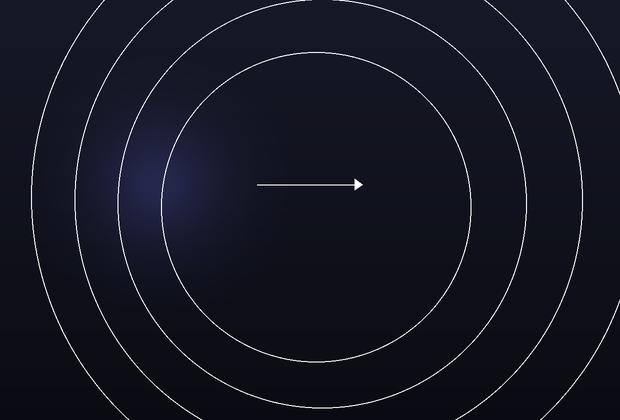
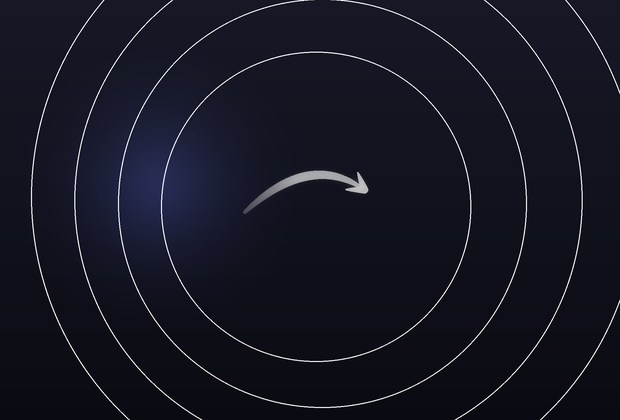
feat: onboarding exit, richer menu bar, actionable errors, drawn DMG arrow
Onboarding had no way out. The panel is a non-activating notch window, so it
receives no key events and Cmd-Q never reaches it, and the flow itself only
moves forward — someone who opened the app to look at it was stuck with a
panel they could not dismiss. There is now a quit control on every step
except the last. It quits rather than hides: onboarding is not optional, so
a dismiss would leave a running app with no route back into setup, and being
straightforward about that beats a button that strands the user. It sits
outside the step ZStack's `.id(step)` so the step transition does not tear it
down and re-insert it on every screen.

Menu bar gains "Add a Face…" and "Quit and Reopen". Adding a second identity
— with glasses, in different light — is the most common fix when recognition
is failing, and it was three clicks deep with nothing pointing at it; the new
item opens Settings directly on that tab via a small one-shot router, since
the tab lives in `@State private var selection` that nothing outside could
reach. "Quit and Reopen" exists because the camera format and the Core ML
model are both chosen at startup, so some settings genuinely need a fresh
launch, and "quit, then go find the app again" is a poor thing to ask of
someone who just changed one. It spawns the new instance with `open -n` so it
belongs to launchd rather than being a child of a process that is about to
die.

Keychain errors now say what to do. They are shown inline under the password
[…]

diff --git a/glance/KeychainManager.swift b/glance/KeychainManager.swift
@@ -16,19 +16,57 @@ enum KeychainError: LocalizedError {
     case authenticationFailed
     case osStatus(OSStatus)
 
+    /// Every case says what the user can actually do about it.
+    ///
+    /// These strings are shown inline under the password field during onboarding,
+    /// where a bare Security-framework message is worse than useless: it is
+    /// alarming, unsearchable, and gives no next step. `errSecMissingEntitlement`
+    /// in particular rendered as "Keychain error: A required entitlement is not
+    /// present", which tells a user nothing they can act on and does not even
+    /// hint that the build is at fault rather than their Mac.
     var errorDescription: String? {
         switch self {
         case .itemNotFound:
-            return "Keychain item not found."
+            return "That Keychain item is missing. Set up your password again to recreate it."
         case .unexpectedData:
-            return "Keychain item had an unexpected format."
+            return "The stored Keychain item is in an unexpected format. "
+                 + "Remove the stored password on the Password tab, then set it again."
         case .accessControlFailed(let msg):
-            return "Couldn't create Keychain access control: \(msg)"
+            return "Couldn't set up Touch ID protection for the stored password (\(msg)). "
+                 + "Check that Touch ID is enrolled in System Settings, then try again."
         case .authenticationFailed:
-            return "Authentication was cancelled or failed."
+            return "Touch ID was cancelled or didn't match. Try again."
         case .osStatus(let status):
-            let message = SecCopyErrorMessageString(status, nil) as String? ?? "OSStatus \(status)"
-            return "Keychain error: \(message)"
+            return Self.actionable(for: status)
+        }
+    }
+
+    /// Maps the handful of OSStatus values this app can realistically produce to
+    /// something a user can act on, and falls back to the system string plus the
+    /// numeric code for everything else — the code matters, because it is the only
+    /// searchable part of an unrecognised failure.
+    private static func actionable(for status: OSStatus) -> String {
+        let system = SecCopyErrorMessageString(status, nil) as String? ?? "unknown error"
+        switch status {
+        case errSecMissingEntitlement:
+            // Not the user's fault and not fixable by them. Say so, rather than
+            // leaving them retrying a thing that cannot work.
+            return "This build of Irys isn't signed correctly, so it can't use the Keychain "
+                 + "(\(system)). Nothing you can change will fix it — please report this at "
+                 + "github.com/jng011/glance/issues."
+        case errSecUserCanceled:
+            return "Touch ID was cancelled. Try again when you're ready."
+        case errSecAuthFailed:
+            return "Touch ID didn't match. Try again, or use your Mac password at the prompt."
+        case errSecDuplicateItem:
+            return "A stored password already exists. Remove it on the Password tab, then set a new one."
+        case errSecInteractionNotAllowed:
+            return "The Keychain is locked right now. Unlock your Mac and try again."
+        case errSecNotAvailable:
+            return "The Keychain isn't available yet. Wait a moment after logging in, then try again."
+        default:
+            return "Keychain error \(status): \(system). If this keeps happening, please report it at "
+                 + "github.com/jng011/glance/issues."
         }
     }
 }

diff --git a/glance/glanceApp.swift b/glance/glanceApp.swift
@@ -102,6 +102,24 @@ final class AppDelegate: NSObject, NSApplicationDelegate, NSMenuDelegate {
         settingsItem.image = NSImage(systemSymbolName: "gearshape.fill", accessibilityDescription: nil)
         menu.addItem(settingsItem)
 
+        // Straight to the enrollment tab. Adding a second face — with glasses, or in
+        // different light — is the single most common reason recognition is failing,
+        // and it was three clicks deep with nothing pointing at it.
+        let enrollItem = NSMenuItem(title: "Add a Face…", action: #selector(openEnrollment), keyEquivalent: "")
+        enrollItem.target = self
+        enrollItem.image = NSImage(systemSymbolName: "person.crop.circle.badge.plus", accessibilityDescription: nil)
+        menu.addItem(enrollItem)
+
+        menu.addItem(.separator())
+
+        // Some settings only take effect on a fresh launch (camera format and the
+        // Core ML model are both chosen at startup), and "quit, then find the app
+        // again" is a poor thing to ask of someone who has just changed one.
+        let relaunchItem = NSMenuItem(title: "Quit and Reopen", action: #selector(relaunch), keyEquivalent: "")
+        relaunchItem.target = self
+        relaunchItem.image = NSImage(systemSymbolName: "arrow.clockwise.circle.fill", accessibilityDescription: nil)
+        menu.addItem(relaunchItem)
+
         let quitItem = NSMenuItem(title: "Quit", action: #selector(NSApplication.terminate(_:)), keyEquivalent: "q")
         quitItem.image = NSImage(systemSymbolName: "xmark.circle.fill", accessibilityDescription: nil)
         menu.addItem(quitItem)
@@ -224,6 +242,35 @@ final class AppDelegate: NSObject, NSApplicationDelegate, NSMenuDelegate {
     /// reopen behavior just brings it forward.
     func applicationShouldHandleReopen(_ sender: NSApplication, hasVisibleWindows flag: Bool) -> Bool {
         return flag
+    }
+
+    /// Relaunches the app: spawns a detached copy of this bundle, then terminates.
+    ///
+    /// `open -n` rather than re-exec'ing so the new instance is owned by launchd
+    /// rather than being a child of a process that is about to die. The short delay
+    /// lets this instance finish terminating first — two copies briefly overlapping
+    /// would both try to own the menu bar item and the notch window.
+    @objc private func relaunch() {
+        let bundlePath = Bundle.main.bundlePath
+        let task = Process()
+        task.executableURL = URL(fileURLWithPath: "/bin/sh")
+        task.arguments = ["-c", "sleep 0.6; /usr/bin/open -n \"\(bundlePath)\""]
+        do {
+            try task.run()
+        } catch {
+            // Nothing recoverable to do — fall back to a plain quit rather than
+            // leaving the user staring at a menu item that did nothing.
+            NSApp.terminate(nil)
+            return
+        }
+        NSApp.terminate(nil)
+    }
+
+    /// Menu bar "Add a Face…" — opens Settings on the enrollment tab.
+    @objc private func openEnrollment() {
+        SettingsWindowRouter.shared.requestedTab = .yourFace
+        revealSettingsWindow()
+        NSApp.activate(ignoringOtherApps: true)
     }
 
     /// Menu bar "Settings" — the only user-facing way to open the window after onboarding.

diff --git a/glance/Onboarding/OnboardingNotchView.swift b/glance/Onboarding/OnboardingNotchView.swift
@@ -7,6 +7,7 @@
 //
 
 import SwiftUI
+import AppKit
 
 struct OnboardingNotchView: View {
     let controller: OnboardingController
@@ -37,6 +38,29 @@ struct OnboardingNotchView: View {
         .id(controller.step)
         .frame(width: controller.panelSize.width, height: controller.panelSize.height)
         .transition(stepTransition)
+        // A way out, on every step.
+        //
+        // Onboarding previously had no exit at all: the panel is a non-activating
+        // notch window, so it takes no key events and Cmd-Q never reaches it, and
+        // the flow itself only moves forward. Someone who opened the app to look at
+        // it was stuck with a panel they could not dismiss. The menu bar Quit does
+        // work, but expecting a user mid-setup to go hunting for it is not an
+        // answer.
+        //
+        // Outside the ZStack's `.id(step)` so it does not get torn down and
+        // re-inserted by the step transition on every screen change.
+        .overlay(alignment: .topTrailing) { quitButton }
+    }
+
+    @ViewBuilder
+    private var quitButton: some View {
+        // Hidden on the final screen: at that point the flow dismisses itself, and
+        // a quit control next to "Done" invites the wrong click.
+        if controller.step != .complete {
+            OnboardingQuitButton()
+                .padding(.top, 8)
+                .padding(.trailing, 10)
+        }
     }
 
     private var stepTransition: AnyTransition {
@@ -68,5 +92,36 @@ private struct OffsetBlurOpacity: ViewModifier {
             .offset(y: offset)
             .blur(radius: blur)
             .opacity(opacity)
+    }
+}
+
+/// Small dismiss control for the onboarding panel.
+///
+/// Quits rather than hiding. Onboarding is not optional — the app cannot unlock
+/// anything until it has a face and a password — so a control that merely hid
+/// the panel would leave a running app in a state with no way back into setup
+/// except quitting anyway. Being honest about that is better than a dismiss that
+/// strands the user.
+private struct OnboardingQuitButton: View {
+    @State private var isHovering = false
+
+    var body: some View {
+        Button {
+            NSApp.terminate(nil)
+        } label: {
+            Image(systemName: "xmark")
+                .font(.system(size: 9, weight: .bold))
+                .foregroundStyle(isHovering ? Color.white.opacity(0.95) : Color.white.opacity(0.42))
+                .frame(width: 20, height: 20)
+                .background(
+                    Circle().fill(Color.white.opacity(isHovering ? 0.16 : 0.07))
+                )
+                .contentShape(Circle())
+        }
+        .buttonStyle(.plain)
+        .onHover { isHovering = $0 }
+        .animation(.easeOut(duration: 0.14), value: isHovering)
+        .help("Quit Irys")
+        .accessibilityLabel("Quit Irys")
     }
 }

diff --git a/glance/Settings/SettingsWindowView.swift b/glance/Settings/SettingsWindowView.swift
@@ -75,6 +75,21 @@ struct SettingsWindowView: View {
         // NSWindow out, keeping `@State` alive, so without this `selection`
         // would remember the last tab instead of resetting to General.
         .onDisappear { selection = .general }
+        // Consume a tab request from outside (menu bar "Add a Face…"). Cleared
+        // immediately so reopening the window later lands on General as usual.
+        .onAppear {
+            if let requested = SettingsWindowRouter.shared.requestedTab {
+                selection = requested
+                SettingsWindowRouter.shared.requestedTab = nil
+            }
+        }
+        .onChange(of: SettingsWindowRouter.shared.requestedTab) { _, requested in
+            // Also handles the window already being open when the menu item fires.
+            if let requested {
+                selection = requested
+                SettingsWindowRouter.shared.requestedTab = nil
+            }
+        }
     }
 
     /// The header and tab bar float over the scroll content as overlays so

diff --git a/glance/Settings/SettingsWindowRouter.swift b/glance/Settings/SettingsWindowRouter.swift
@@ -1,0 +1,26 @@
+//
+//  SettingsWindowRouter.swift
+//  Irys
+//
+//  Lets code outside the Settings window ask it to open on a particular tab.
+//
+//  `SettingsWindowView` keeps its tab in `@State private var selection`, which
+//  nothing else can reach. Rather than hoisting that state — which would make
+//  every tab change a global event — this carries a one-shot *request* that the
+//  view consumes and clears.
+//
+
+import Observation
+
+@Observable
+@MainActor
+final class SettingsWindowRouter {
+    static let shared = SettingsWindowRouter()
+
+    /// Set by a caller before revealing the window; cleared by the view once
+    /// applied. One-shot on purpose: a sticky value would drag the window back to
+    /// the same tab every time it reopened.
+    var requestedTab: SettingsTab?
+
+    private init() {}
+}
